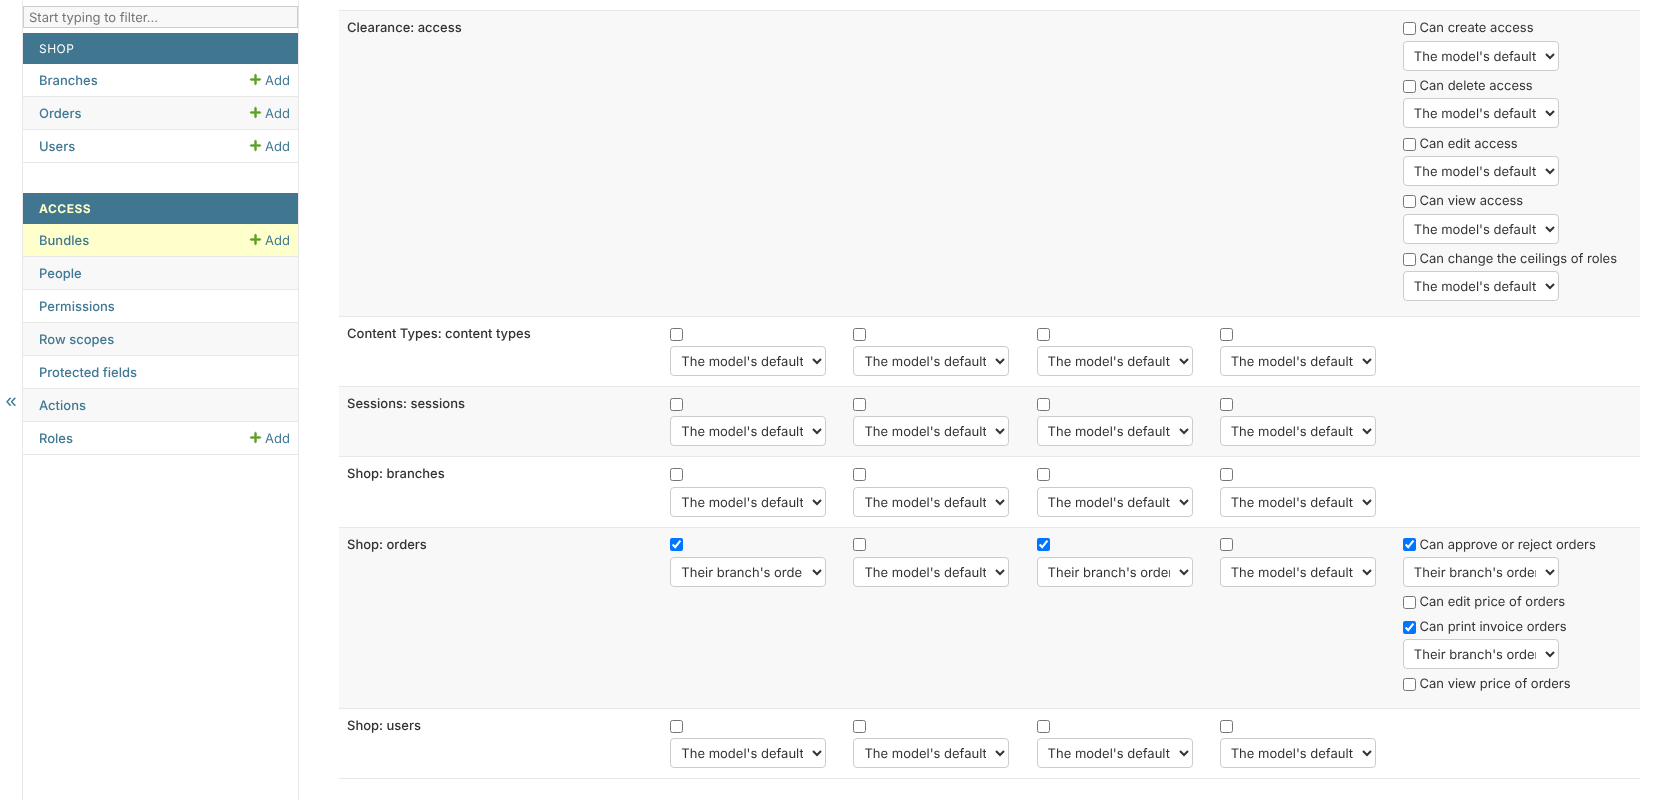
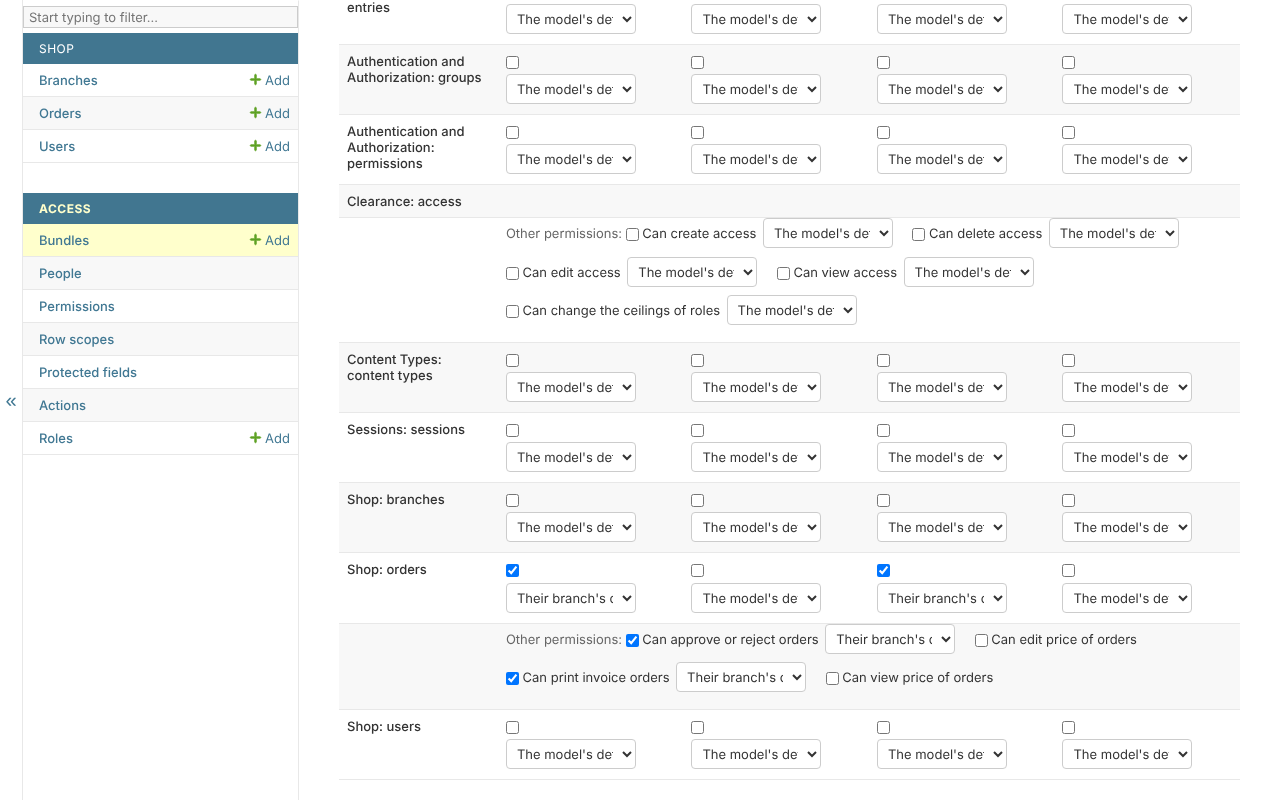
Admin site: the access pages in Persian, a breadcrumb bar, a grid that fits
What the pictures of the admin site showed, for the documentation:

- The access pages say their own words in Persian. The grid's column
  headings were the actions' codes; the library's own permissions were a
  plain tuple, which lost the labels they are read by - DeclaredPermissions
  gains adding(), for a permission no action names; the apps' names were
  never marked.
- The breadcrumbs are Django's bar on every Django: 6.1 styles only its new
  markup, so the old one is styled from the admin's own colour variables.
- The rule builder shows each operator in words, in the reader's language.
- A bundle's grid fits a 1280-pixel screen: a model's other permissions run
  on a row of their own under its four, where they were pushed off the side.
  A browser test holds it, in English and in Persian.

The pictures are taken again, and the bundle no longer needs a wider screen.

diff --git a/src/clearance/static/clearance/admin.css b/src/clearance/static/clearance/admin.css
@@ -1,9 +1,15 @@
 /* The access pages: Django's admin, with a grid. Colours are the admin's own variables. */
 .clearance table { width: 100%; margin-bottom: 1.5em; }
-.clearance-grid th[scope="row"] { white-space: nowrap; }
+.clearance-grid th[scope="row"] { min-width: 9em; }
 .clearance-grid td { vertical-align: top; }
-.clearance-grid select { display: block; max-width: 12em; margin-top: 0.25em; }
+.clearance-grid select { display: block; max-width: 10em; margin-top: 0.25em; }
 .clearance-other { margin-bottom: 0.5em; }
+/* A model's other permissions run under its four, across the grid: none is pushed off the side. */
+.clearance-grid tr.clearance-others td { border-top: none; padding-top: 0; }
+.clearance-grid tr.clearance-others .clearance-other {
+    display: inline-flex; align-items: center; gap: 0.5em; margin-inline-end: 1.5em;
+}
+.clearance-grid tr.clearance-others select { display: inline-block; margin-top: 0; }
 .clearance-inline { display: inline; margin-inline-start: 0.5em; }
 .clearance-note { color: var(--body-quiet-color); }
 .clearance-grid label.clearance-other { display: inline-block; margin-inline-end: 1.5em; white-space: nowrap; }
@@ -15,3 +21,15 @@
 /* A wide table scrolls inside its own box: the page never scrolls sideways, in either direction. */
 .clearance { min-width: 0; }
 .clearance-scroll { overflow-x: auto; max-width: 100%; }
+/* The breadcrumbs as Django's own bar, on every Django: 6.1 styles only its new markup. */
+div.breadcrumbs.clearance-breadcrumbs {
+    background: var(--breadcrumbs-bg);
+    padding: 10px 40px;
+    border: none;
+    color: var(--breadcrumbs-fg);
+    text-align: start;
+    font-size: 0.875rem;
+}
+div.breadcrumbs.clearance-breadcrumbs a { color: var(--breadcrumbs-link-fg); }
+div.breadcrumbs.clearance-breadcrumbs a:focus,
+div.breadcrumbs.clearance-breadcrumbs a:hover { color: var(--breadcrumbs-fg); }

diff --git a/src/clearance/templates/clearance/admin/bundle.html b/src/clearance/templates/clearance/admin/bundle.html
@@ -15,7 +15,7 @@
     <div class="clearance-scroll">
     <table class="clearance-grid">
       <thead>
-        <tr><th>{% translate 'Model' %}</th>{% for column in grid.columns %}<th>{{ column }}</th>{% endfor %}<th>{% translate 'Other permissions' %}</th></tr>
+        <tr><th>{% translate 'Model' %}</th>{% for heading in grid.headings %}<th>{{ heading }}</th>{% endfor %}</tr>
       </thead>
       <tbody>
       {% for row in grid.rows %}
@@ -24,8 +24,14 @@
           {% for cell in row.columns %}
             <td>{% if cell %}{% include "clearance/admin/cell.html" %}{% endif %}</td>
           {% endfor %}
-          <td>{% for cell in row.others %}<div class="clearance-other">{% include "clearance/admin/cell.html" with labelled=True %}</div>{% endfor %}</td>
         </tr>
+        {% if row.others %}
+        <tr class="clearance-others">
+          <td></td>
+          <td colspan="{{ grid.headings|length }}"><span class="clearance-note">{% translate 'Other permissions' %}:</span>
+            {% for cell in row.others %}<div class="clearance-other">{% include "clearance/admin/cell.html" with labelled=True %}</div>{% endfor %}</td>
+        </tr>
+        {% endif %}
       {% endfor %}
       </tbody>
     </table>

diff --git a/src/clearance/templates/clearance/admin/scope.html b/src/clearance/templates/clearance/admin/scope.html
@@ -26,7 +26,7 @@
       {% for row in rows %}
         <tr class="clearance-condition">
           <td><input type="text" name="field" value="{{ row.field }}" list="clearance-paths" aria-label="{% translate 'Field' %}"></td>
-          <td><select name="operator" aria-label="{% translate 'Operator' %}">{% for operator in operators %}<option value="{{ operator }}"{% if row.operator == operator %} selected{% endif %}>{{ operator }}</option>{% endfor %}</select></td>
+          <td><select name="operator" aria-label="{% translate 'Operator' %}">{% for code, words in operators %}<option value="{{ code }}"{% if row.operator == code %} selected{% endif %}>{{ words }}</option>{% endfor %}</select></td>
           <td><select name="kind" aria-label="{% translate 'Compared with' %}">
             <option value="constant"{% if row.kind == 'constant' %} selected{% endif %}>{% translate 'a value' %}</option>
             <option value="person"{% if row.kind == 'person' %} selected{% endif %}>{% translate "the person's" %}</option>

diff --git a/src/clearance/templates/clearance/admin/base.html b/src/clearance/templates/clearance/admin/base.html
@@ -4,7 +4,7 @@
 {% block extrastyle %}{{ block.super }}<link rel="stylesheet" href="{% static 'clearance/admin.css' %}">{% endblock %}
 
 {% block breadcrumbs %}
-<div class="breadcrumbs">
+<div class="breadcrumbs clearance-breadcrumbs">
   <a href="{% url 'admin:index' %}">{% translate 'Home' %}</a>
   &rsaquo; <a href="{% url 'admin:clearance_overview' %}">{% translate 'Access' %}</a>
   {% block crumbs %}{% endblock %}

diff --git a/tests/test_the_library_speaks_persian.py b/tests/test_the_library_speaks_persian.py
@@ -145,3 +145,65 @@ def test_the_access_pages_read_in_persian(client: Client, make_user: MakeUser) -
     assert BUNDLES_FA in page.content.decode()
     with translation.override('fa'):
         assert _('What it is for') == WHAT_FOR_FA, "an optional app's own catalogue is read too"
+
+
+# ---------------------------------------------------------------------- the access pages
+
+
+#: "Can create access", "Can change the ceilings of roles" and "is one of", in Persian -
+#: written as escapes: the code is English only.
+CREATE_ACCESS_FA = (
+    '\u0645\u06cc\u200c\u062a\u0648\u0627\u0646\u062f \u062f\u0633'
+    '\u062a\u0631\u0633\u06cc \u0628\u0633\u0627\u0632\u062f'
+)
+CEILINGS_FA = (
+    '\u0645\u06cc\u200c\u062a\u0648\u0627\u0646\u062f \u0633\u0642'
+    '\u0641 \u0646\u0642\u0634\u200c\u0647\u0627 \u0631\u0627 \u062a'
+    '\u063a\u06cc\u06cc\u0631 \u062f\u0647\u062f'
+)
+IS_ONE_OF_FA = '\u06cc\u06a9\u06cc \u0627\u0633\u062a \u0627\u0632'
+
+
+@pytest.mark.django_db
+def test_the_librarys_own_permissions_and_apps_read_in_persian() -> None:
+    """They were kept in a plain tuple, which lost the labels they are read by."""
+    from django.apps import apps
+
+    from clearance.labels import labels_in
+    from tests.conftest import permission
+
+    persian = labels_in('fa')
+
+    assert persian.of(permission('clearance.permission_create')) == CREATE_ACCESS_FA
+    assert persian.of(permission('clearance.role_ceiling_edit')) == CEILINGS_FA
+    assert permission('clearance.role_ceiling_edit').name == 'Can change the ceilings of roles'
+    with translation.override('fa'):
+        assert str(apps.get_app_config('clearance').verbose_name) != 'Clearance'
+
+
+@pytest.mark.django_db
+def test_the_grid_and_the_rule_builder_say_their_words_in_persian(
+    client: Client, make_user: MakeUser
+) -> None:
+    person = make_user(superuser=True)
+    person.is_staff = True
+    person.save()
+    client.force_login(person)
+
+    with override_settings(LANGUAGE_CODE='fa'):
+        grid = client.get('/admin/access/bundles/add/').content.decode()
+        builder = client.get('/admin/access/scopes/add/?model=lending.Loan').content.decode()
+
+    with translation.override('fa'):
+        view = _('View')
+    assert view != 'View'
+    assert f'<th>{view}</th>' in grid
+    assert f'>{IS_ONE_OF_FA}</option>' in builder
+    assert 'clearance-breadcrumbs' in grid, "the bar Django's own pages have"
+
+
+def test_every_operator_of_a_rule_has_words() -> None:
+    from clearance.admin.scopes import OPERATOR_WORDS
+    from clearance.rules import OPERATORS
+
+    assert set(OPERATOR_WORDS) == set(OPERATORS)

diff --git a/src/clearance/admin/scopes.py b/src/clearance/admin/scopes.py
@@ -10,6 +10,7 @@ condition and names each one that is wrong.
 """
 
 from collections.abc import Iterator, Mapping
+from types import MappingProxyType
 from typing import Any
 
 from django.apps import apps
@@ -21,7 +22,9 @@ from django.db.models import Count, Model
 from django.http import HttpRequest, HttpResponse, QueryDict
 from django.shortcuts import get_object_or_404
 from django.urls import URLPattern, path
+from django.utils.functional import Promise
 from django.utils.translation import gettext as _
+from django.utils.translation import gettext_lazy
 
 from clearance.admin.views import PageSet
 from clearance.fields import Protection, field_names
@@ -34,6 +37,21 @@ from clearance.services import AccessService
 
 #: How many empty conditions a new rule's page offers, for a browser without the script.
 BLANK_CONDITIONS = 3
+
+#: Each operator, in the reader's language - its code is what the rule keeps.
+OPERATOR_WORDS: Mapping[str, Promise] = MappingProxyType(
+    {
+        'is': gettext_lazy('is'),
+        'is_not': gettext_lazy('is not'),
+        'is_one_of': gettext_lazy('is one of'),
+        'contains': gettext_lazy('contains'),
+        'is_empty': gettext_lazy('is empty'),
+        'before': gettext_lazy('before'),
+        'after': gettext_lazy('after'),
+        'at_least': gettext_lazy('at least'),
+        'at_most': gettext_lazy('at most'),
+    }
+)
 
 
 class ScopePages(PageSet):
@@ -109,7 +127,7 @@ class ScopePages(PageSet):
             form=form,
             rows=rows[: max(len(conditions) + 1, BLANK_CONDITIONS)],
             errors=errors,
-            operators=list(OPERATORS),
+            operators=[(code, OPERATOR_WORDS.get(code, code)) for code in OPERATORS],
             matches=MATCHES,
             paths=list(field_paths(model)),
             person_paths=list(field_paths(get_user_model())),

diff --git a/tests/test_the_pages_work_in_a_browser.py b/tests/test_the_pages_work_in_a_browser.py
@@ -139,3 +139,27 @@ def test_no_page_is_wider_than_the_screen_in_either_direction(
         )
 
     assert wide <= screen, f'{address} in {language} is {wide}px on a {screen}px screen'
+
+
+@pytest.mark.parametrize('language', ['en', 'fa'])
+def test_a_bundles_grid_fits_a_common_screen_with_every_permission_in_sight(
+    browser: Any, live_server: Any, administrator: Person, language: str
+) -> None:
+    """
+    A model's other permissions - approving a loan, reading its credit score -
+    sat in a fifth column, behind a sideways scroll on a 1280-pixel screen.
+    """
+    with override_settings(LANGUAGE_CODE=language):
+        page = page_for(
+            browser, live_server, administrator, viewport={'width': 1280, 'height': 800}
+        )
+        page.goto(f'{live_server.url}/admin/access/bundles/add/')
+
+        wide, room = page.evaluate(
+            "(() => { const box = document.querySelector('.clearance-scroll');"
+            ' return [box.scrollWidth, box.clientWidth]; })()'
+        )
+        approve = page.locator('input[value="lending.loan_approve"]')
+
+    assert wide <= room, f'the grid is {wide}px in a {room}px box, in {language}'
+    assert approve.is_visible()

diff --git a/src/clearance/admin/standing.py b/src/clearance/admin/standing.py
@@ -13,10 +13,13 @@ grants there are.
 
 from collections.abc import Iterable, Mapping
 from dataclasses import dataclass, field
+from types import MappingProxyType
 from typing import Any, Final
 
 from django.contrib.auth.models import Group, Permission
 from django.db.models import Model
+from django.utils.functional import Promise
+from django.utils.translation import gettext_lazy as _
 
 from clearance.fields import Protection
 from clearance.grants import Scope
@@ -29,6 +32,11 @@ from clearance.querysets import code_scopes
 
 #: The columns of the grid: the four actions every model has.
 COLUMNS: Final = DEFAULT_ACTIONS
+
+#: Each column's heading, in the reader's language.
+HEADINGS: Final[Mapping[str, Promise]] = MappingProxyType(
+    {'view': _('View'), 'create': _('Create'), 'edit': _('Edit'), 'delete': _('Delete')}
+)
 
 
 def name_of(permission: Permission) -> str:
@@ -189,6 +197,7 @@ class PermissionGrid:
     """Every permission there is, laid out as a bundle is edited."""
 
     columns = COLUMNS
+    headings = tuple(HEADINGS[column] for column in COLUMNS)
 
     def __init__(self, rows: list[Row]) -> None:
         self.rows = rows

diff --git a/src/clearance/permissions.py b/src/clearance/permissions.py
@@ -119,6 +119,23 @@ class DeclaredPermissions(tuple[tuple[str, str], ...]):
         declared.labels = MappingProxyType(dict(labels or {}))
         return declared
 
+    def adding(self, codename: str, label: Promise) -> 'DeclaredPermissions':
+        """
+        These, and one permission more that no action of the resource names -
+        stored by its English name, as Django stores every permission's, and
+        read in the reader's language.
+        """
+        with translation.override(None):
+            stored = str(label)
+
+        return DeclaredPermissions(
+            [*self, (codename, stored)],
+            self.codename,
+            self.protected_fields,
+            self.status_actions,
+            {**self.labels, codename: label},
+        )
+
 
 class PermissionSet:
     """

diff --git a/docs/screenshots.py b/docs/screenshots.py
@@ -63,8 +63,6 @@ print(json.dumps({
 
 #: The pictures that show a part of a long page, by the text the part starts at.
 FOCUS = {'bundle': 'Shop: orders'}
-#: The pictures of a page wider than the screen most pictures are taken on.
-WIDE = {'bundle': {'width': 1680, 'height': 800}}
 
 
 def pages(keys: dict[str, int]) -> dict[str, tuple[str, str]]:
@@ -153,7 +151,6 @@ def photograph(server: str, shown: dict[str, tuple[str, str]]) -> None:
                     signed_in[who] = sign_in(context.new_page(), server, who)
 
                 page = signed_in[who]
-                page.set_viewport_size(WIDE.get(picture, SIZE))
                 page.goto(f'{server}{address}')
 
                 if picture in FOCUS:

diff --git a/src/clearance/translations/apps.py b/src/clearance/translations/apps.py
@@ -8,6 +8,7 @@ language, and removes a name with the thing it names.
 """
 
 from django.apps import AppConfig
+from django.utils.translation import gettext_lazy as _
 
 
 class TranslationsConfig(AppConfig):
@@ -16,7 +17,7 @@ class TranslationsConfig(AppConfig):
     default_auto_field = 'django.db.models.BigAutoField'
 
     # A product name, the same in every language - so not marked for translation.
-    verbose_name = 'Clearance: translations'
+    verbose_name = _('Clearance: translations')
 
     def ready(self) -> None:
         from django.core.checks import register

diff --git a/src/clearance/models.py b/src/clearance/models.py
@@ -39,9 +39,8 @@ class Access(models.Model):
     class Meta:
         managed = False
         default_permissions = ()
-        permissions = (
-            *build_permissions('permission', 'access', actions=DEFAULT_ACTIONS),
-            ('role_ceiling_edit', 'Can change the ceilings of roles'),
+        permissions = build_permissions('permission', _('access'), actions=DEFAULT_ACTIONS).adding(
+            'role_ceiling_edit', _('Can change the ceilings of roles')
         )
         verbose_name = _('access')
         verbose_name_plural = _('access')
